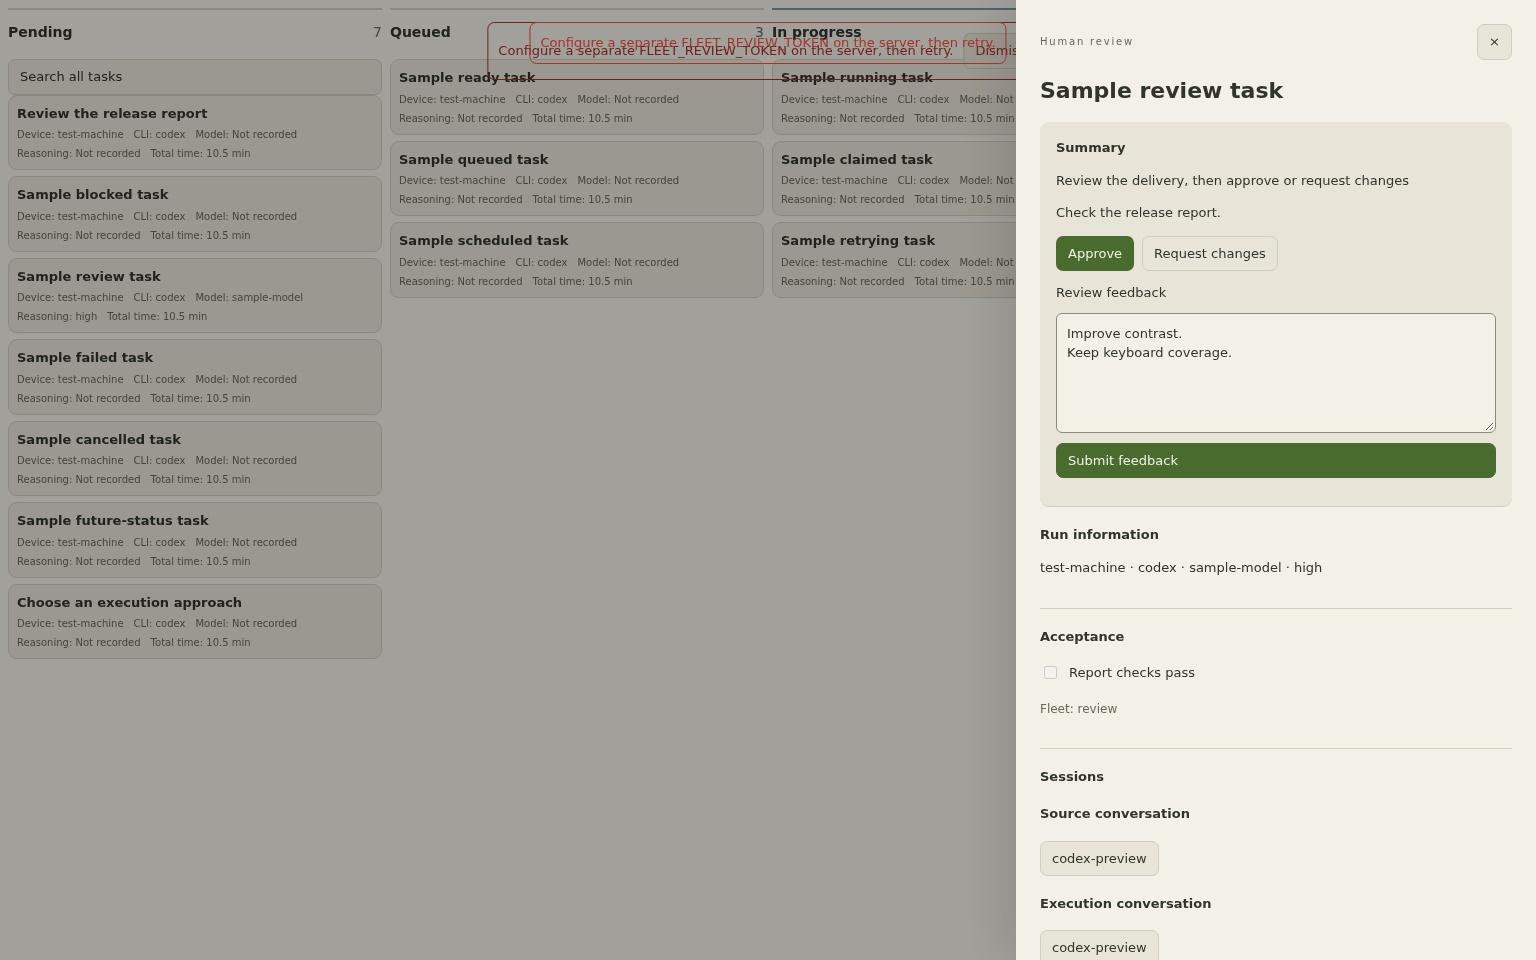
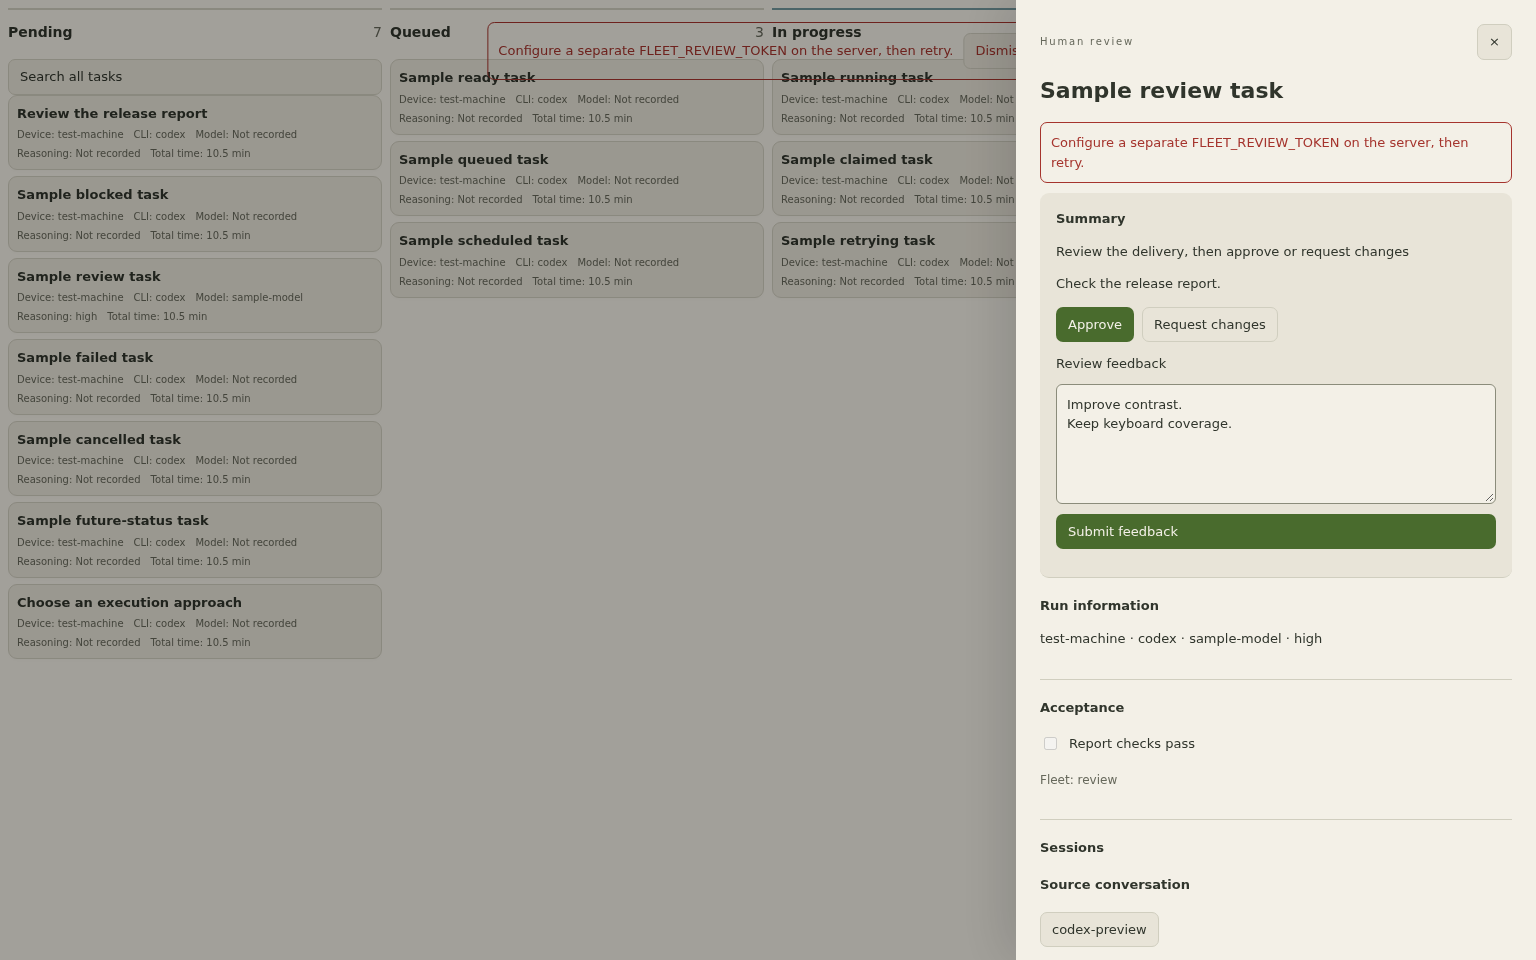
Keep drawer failures readable and record before-after browser evidence

diff --git a/dashboard/src/task-control-tower.css b/dashboard/src/task-control-tower.css
@@ -615,3 +615,4 @@
 .tower-search input { width: 100%; margin: 16px 0; }
 .tower-search > div { display: flex; justify-content: space-between; gap: 12px; padding: 8px 0; }
 [data-workbench-theme="dark"] .tower-search { background: #202124; color: #eee; }
+.tower-drawer .tower-error { position: static; transform: none; max-width: none; }

diff --git a/docs/validation/global-kanban/README.md b/docs/validation/global-kanban/README.md
@@ -1,6 +1,6 @@
 # Global kanban rescue validation
 
-Screenshots in this directory are actual localhost browser captures using fictional fixture data, in English. They are not production screenshots.
+Screenshots in this directory are actual localhost browser captures using fictional fixture data, in English. They are not production screenshots. The two `before-*` captures were produced in a separate isolated worktree at main `1451efd`; the remaining captures use the PR build.
 
 - Desktop: 1536 × 960, light and dark; four fixed columns, no toolbar or duplicate attention panel.
 - Mobile: 390 × 960, light and dark; automatic grouped list, compact navigation, bounded drawer.
